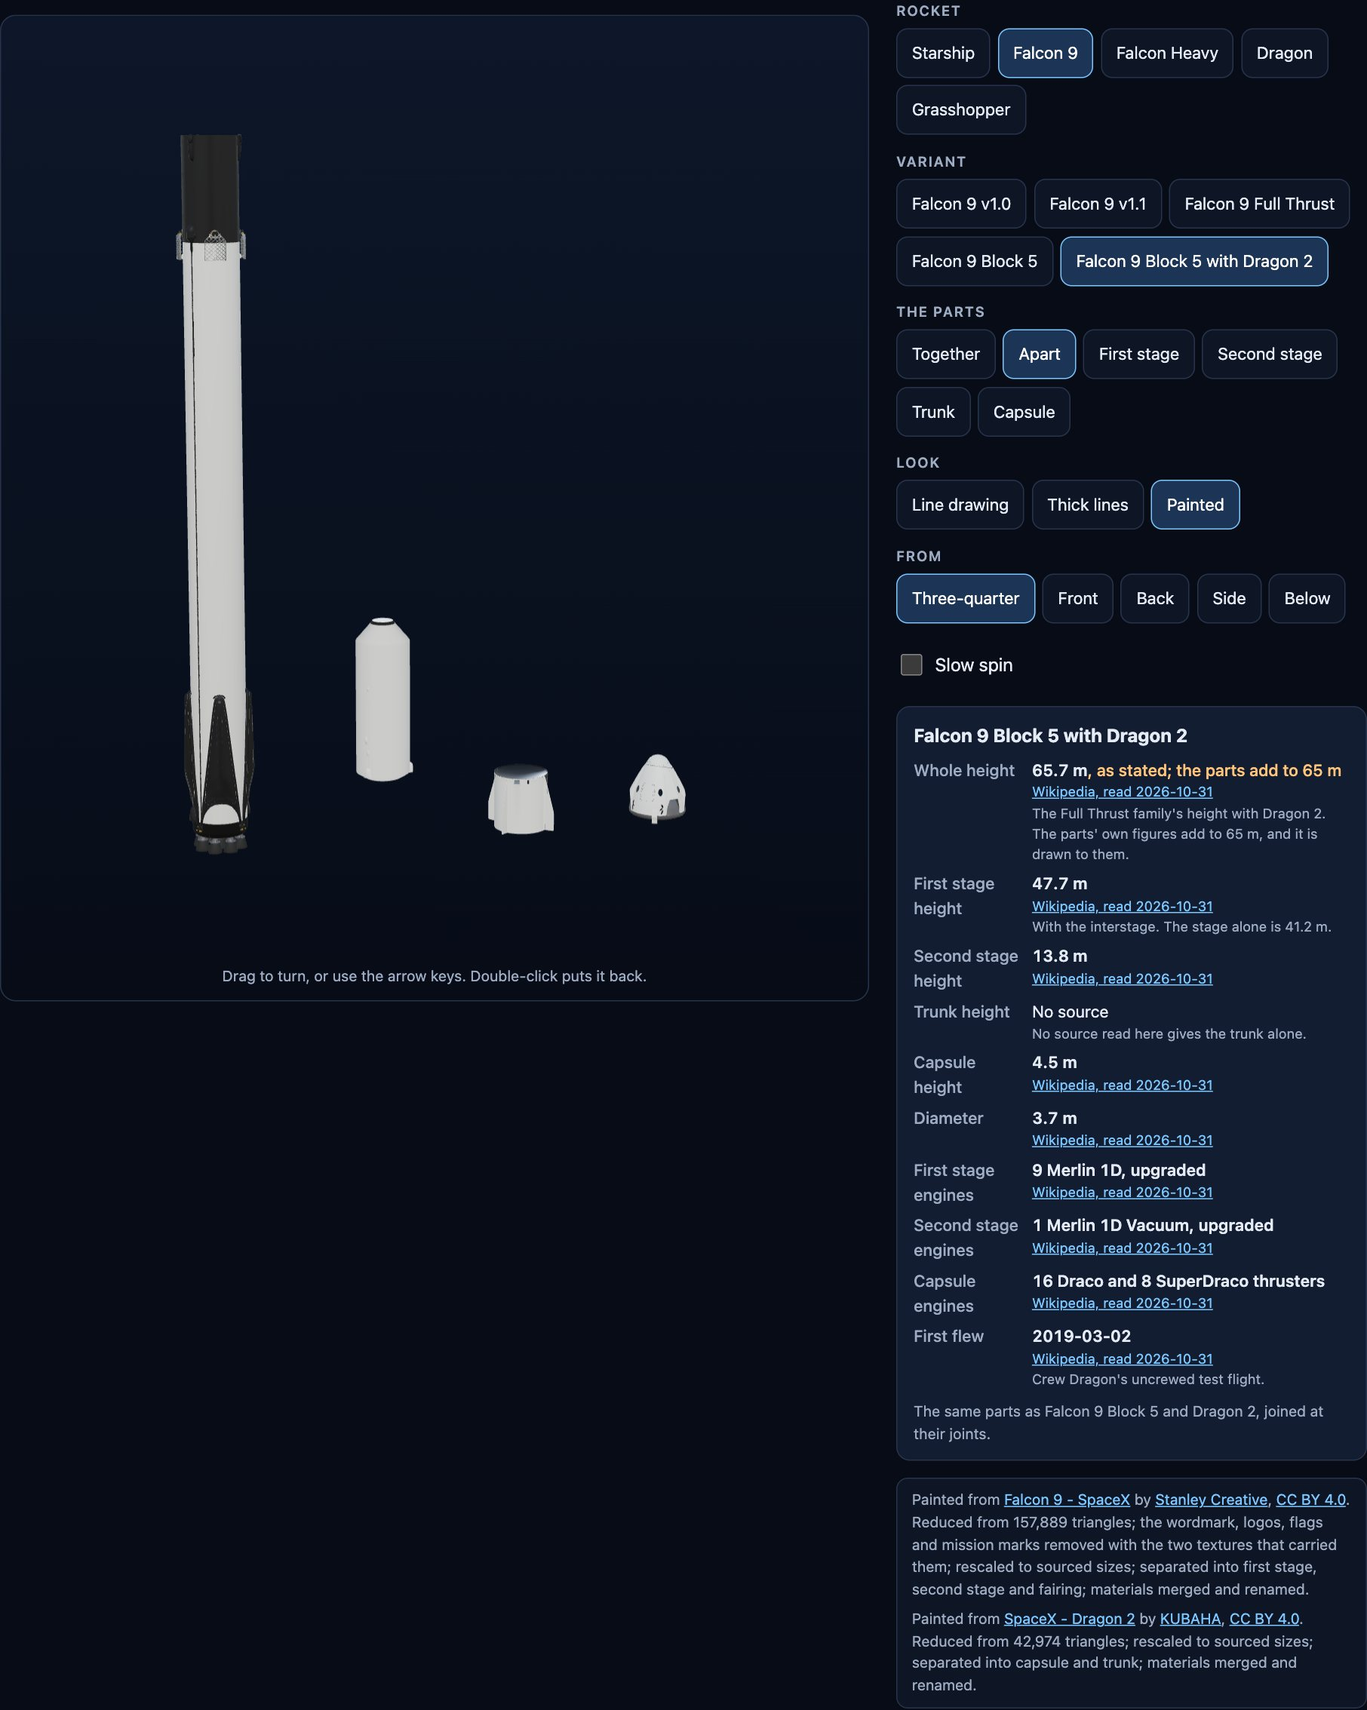
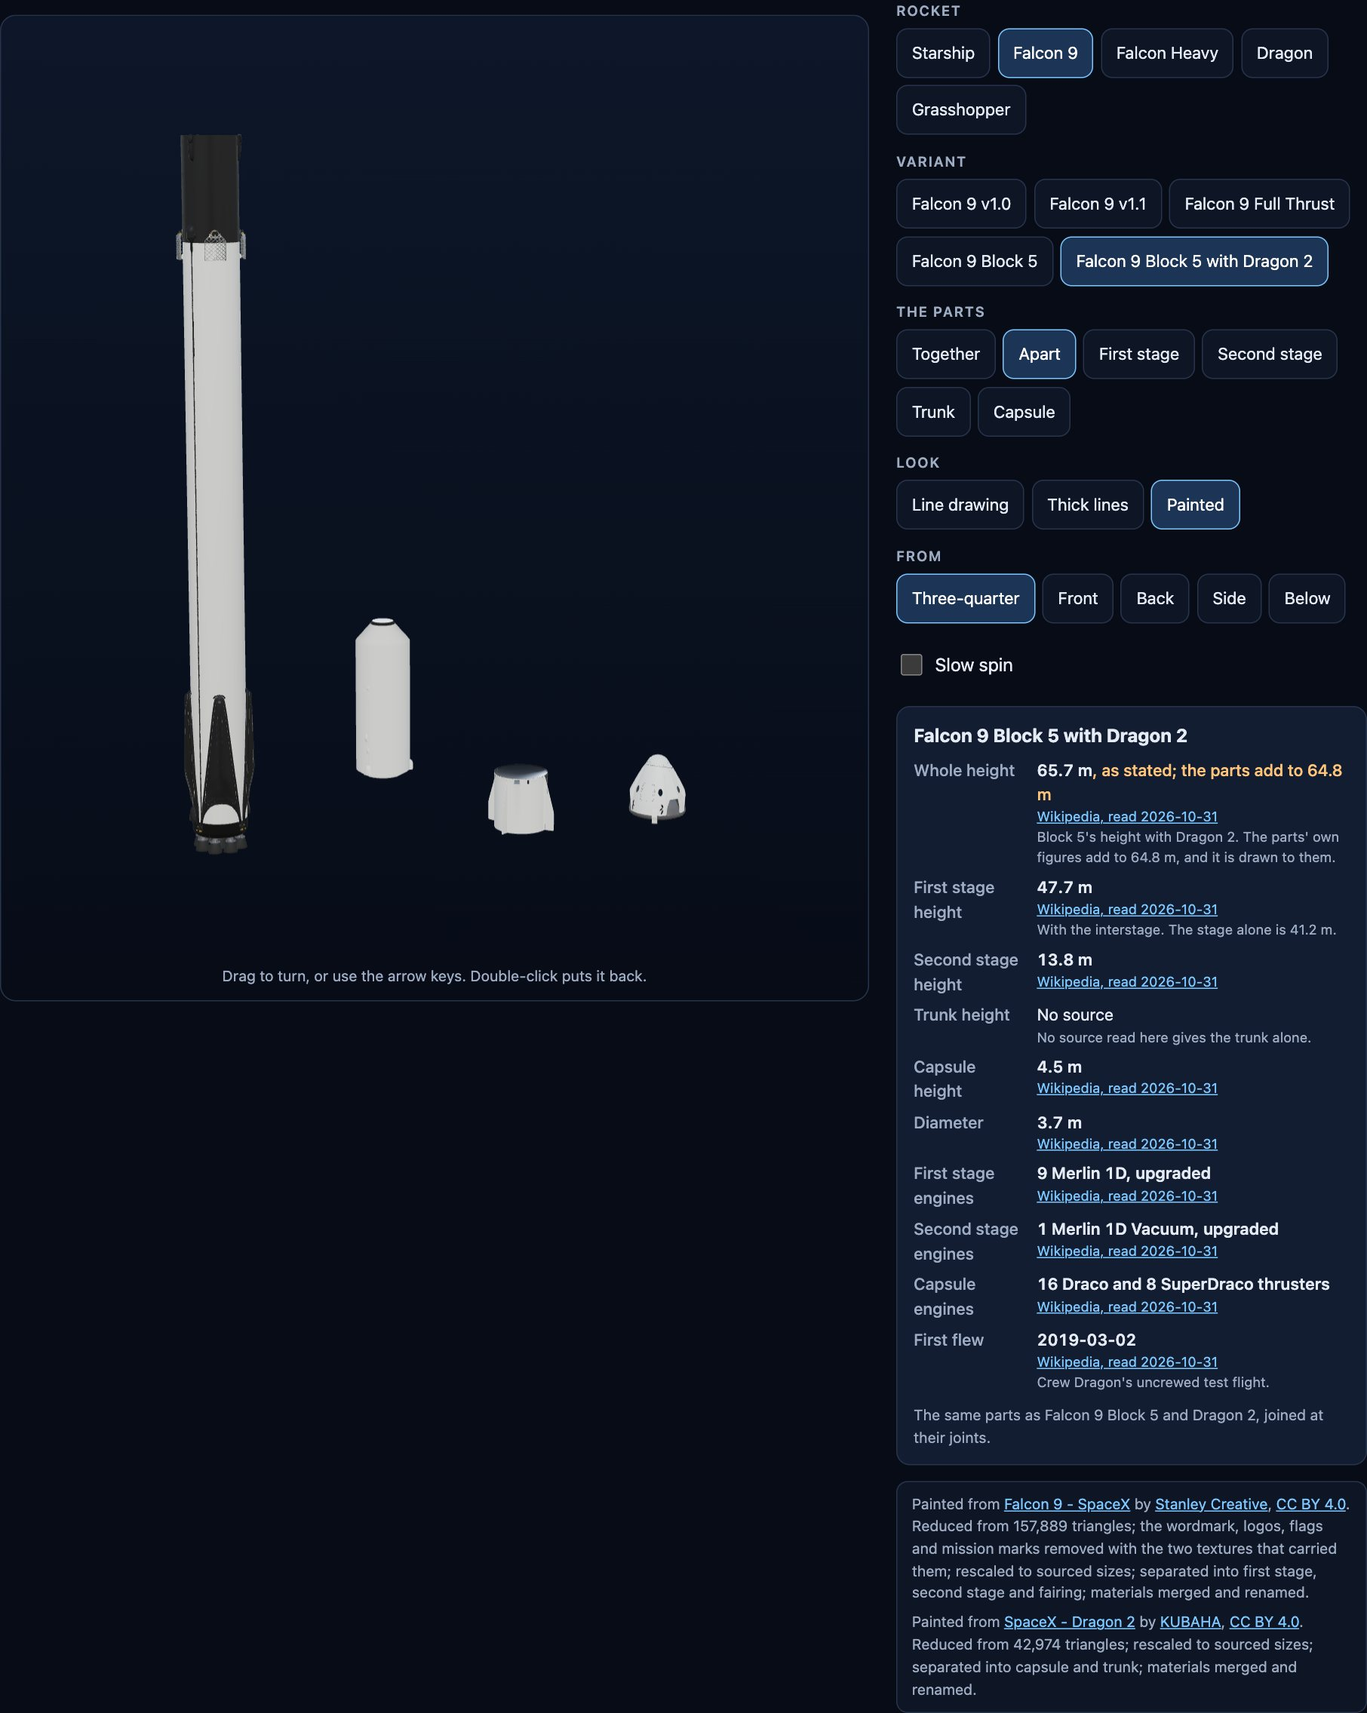
fix(falcon): Block 5 is 69.8 m; notice corrected

diff --git a/src/data/falcon.ts b/src/data/falcon.ts
@@ -1,8 +1,9 @@
-// Falcon 9 and Falcon Heavy as the sources give them. Facts on the older rockets also come from r/SpaceX's SpaceX-API (Apache-2.0), read from its repository's docs. A blank stays blank.
+// Falcon 9 and Falcon Heavy as the sources give them. r/SpaceX's SpaceX-API (Apache-2.0, archived in 2024) has one row per rocket, not per version, read from its repository's docs. A blank stays blank.
 import { blank, type Figure, type Variant } from "./types.ts";
 
 const F9 = "wikipedia-falcon-9" as const;
 const FH = "wikipedia-falcon-heavy" as const;
+const B5 = "wikipedia-falcon-9-block-5" as const;
 const API = "r-spacex" as const;
 const m = (value: number, source: Figure["source"], extra: Partial<Figure> = {}): Figure => ({ value, source, ...extra });
 const said = (value: string, source: Figure<string>["source"], extra: Partial<Figure<string>> = {}): Figure<string> => ({ value, source, ...extra });
@@ -11,7 +12,7 @@ const num = (value: number, source: Figure<number | string>["source"], extra: Pa
 const FAIRING_NOTE = "The article's height is measured to the top of the payload fairing.";
 const FIRST_STAGE_WITH_INTERSTAGE = m(47.7, F9, { note: "With the interstage. The stage alone is 41.2 m." });
 const SECOND_STAGE = m(13.8, F9);
-const FAIRING = m(13.1, API, { note: "From SpaceX-API's Falcon rows, 5.2 m across." });
+const FAIRING = m(13.1, API, { note: "SpaceX-API's Falcon 9 row, which gives one row for every version, 5.2 m across.", others: [{ value: 13, source: F9, note: "The Falcon 9 article rounds: 13 m long and 5.2 m in diameter." }] });
 
 export const FALCON_9_VARIANTS: readonly Variant[] = [
   {
@@ -23,7 +24,7 @@ export const FALCON_9_VARIANTS: readonly Variant[] = [
     slots: ["first-stage", "second-stage", "fairing"],
     note: "Its nine Merlin 1C engines stood in a 3 by 3 grid. Stated with a fairing, though its height with Dragon 1 was 47.8 m. No source read here gives its parts with the interstage, so they are drawn in proportion to the whole.",
     facts: {
-      height: m(54.9, F9, { note: FAIRING_NOTE }),
+      height: m(54.9, F9, { note: FAIRING_NOTE, others: [{ value: 53, source: F9, note: "The same article's table of versions says 53 m; its infobox, with a note on how it is measured, says 54.9 m." }] }),
       diameter: m(3.7, F9),
       parts: {
         "first-stage": m(39.6, F9, { brief: "the stage alone, without its interstage" }),
@@ -63,7 +64,7 @@ export const FALCON_9_VARIANTS: readonly Variant[] = [
     slots: ["first-stage", "second-stage", "fairing"],
     note: "Blocks 3 and 4 are part of Full Thrust; Block 4 first flew on 2017-08-14, and no source read here gives it sizes of its own. So it is not listed apart.",
     facts: {
-      height: m(69.8, F9, { note: FAIRING_NOTE }),
+      height: m(69.8, F9, { note: FAIRING_NOTE, others: [{ value: 70, source: F9, note: "The same article's table of versions rounds to 70 m." }] }),
       diameter: m(3.7, F9),
       parts: { "first-stage": FIRST_STAGE_WITH_INTERSTAGE, "second-stage": SECOND_STAGE, fairing: FAIRING },
       engines: { "first-stage": said("9 Merlin 1D+", F9), "second-stage": said("1 Merlin 1D Vacuum", F9) },
@@ -78,8 +79,8 @@ export const FALCON_9_VARIANTS: readonly Variant[] = [
     firstFlight: said("2018-05-11", F9, { note: "Bangabandhu Satellite-1." }),
     slots: ["first-stage", "second-stage", "fairing"],
     facts: {
-      height: m(70, F9, { others: [{ value: 69.8, source: F9, note: "The article's infobox gives 69.8 m for the Full Thrust family; its performance table gives 70 m for Block 5." }, { value: 70, source: API, note: "SpaceX-API's Falcon rows also say 70 m." }] }),
-      diameter: m(3.7, F9, { others: [{ value: 3.66, source: F9, note: "The performance table rounds to 3.66 m; the infobox and SpaceX-API say 3.7 m." }] }),
+      height: m(69.8, B5, { note: "With the payload fairing, from Block 5's own article.", others: [{ value: 70, source: F9, note: "The Falcon 9 article's table of versions rounds to 70 m." }, { value: 70, source: API, note: "SpaceX-API's Falcon 9 row says 70 m, for every version." }] }),
+      diameter: m(3.7, B5, { others: [{ value: 3.66, source: F9, note: "The Falcon 9 article's table of versions says 3.66 m; the infoboxes and SpaceX-API say 3.7 m." }] }),
       parts: { "first-stage": FIRST_STAGE_WITH_INTERSTAGE, "second-stage": SECOND_STAGE, fairing: FAIRING },
       engines: { "first-stage": said("9 Merlin 1D, upgraded", F9), "second-stage": said("1 Merlin 1D Vacuum, upgraded", F9) },
       more: { landingLegs: num(4, F9) },
@@ -95,7 +96,7 @@ export const FALCON_9_VARIANTS: readonly Variant[] = [
     partIds: { "first-stage": "falcon-9-block-5-first-stage", "second-stage": "falcon-9-block-5-second-stage", trunk: "dragon-dragon-2-trunk", capsule: "dragon-dragon-2-capsule" },
     note: "The same parts as Falcon 9 Block 5 and Dragon 2, joined at their joints.",
     facts: {
-      height: m(65.7, F9, { brief: "as stated; the parts add to 65 m", note: "The Full Thrust family's height with Dragon 2. The parts' own figures add to 65 m, and it is drawn to them." }),
+      height: m(65.7, B5, { brief: "as stated; the parts add to 64.8 m", note: "Block 5's height with Dragon 2. The parts' own figures add to 64.8 m, and it is drawn to them." }),
       diameter: m(3.7, F9),
       parts: { "first-stage": FIRST_STAGE_WITH_INTERSTAGE, "second-stage": SECOND_STAGE, trunk: blank("No source read here gives the trunk alone."), capsule: m(4.5, "wikipedia-dragon-2") },
       engines: { "first-stage": said("9 Merlin 1D, upgraded", F9), "second-stage": said("1 Merlin 1D Vacuum, upgraded", F9), capsule: said("16 Draco and 8 SuperDraco thrusters", "wikipedia-dragon-2") },

diff --git a/src/data/sources.ts b/src/data/sources.ts
@@ -25,12 +25,13 @@ export const SOURCES = {
   "gunter": { title: "Starship (Super Heavy Starship, BFR, Big Falcon Rocket)", publisher: "Gunter's Space Page", url: "https://space.skyrocket.de/doc_lau/super-heavy-starship.htm", date: "2026-10-31", read: "direct" },
   "newspace-v1-v4": { title: "SpaceX Starship from V1 to V4", publisher: "New Space Economy", url: "https://newspaceeconomy.ca/2026/05/28/spacex-starship-from-v1-to-v4/", date: "2026-05-28", read: "direct" },
   "spacecom-mk1": { title: "SpaceX Finishes Assembling New Starship Prototype", publisher: "Space.com", url: "https://www.space.com/spacex-assembles-starship-mk1-photo.html", date: "2019-09", read: "search" },
-  "r-spacex": { title: "SpaceX-API, docs/rockets/v4", publisher: "r/SpaceX (Apache-2.0, archived 2024)", url: "https://github.com/r-spacex/SpaceX-API/tree/master/docs/rockets/v4", date: "2024-08-17", read: "direct", licence: "Apache-2.0" },
+  "r-spacex": { title: "SpaceX-API, docs/rockets/v4: its Falcon 9 row in query.md and its Falcon Heavy row in all.md", publisher: "r/SpaceX (Apache-2.0, archived 2024)", url: "https://github.com/r-spacex/SpaceX-API/tree/master/docs/rockets/v4", date: "2024-08-17", read: "direct", licence: "Apache-2.0" },
   "wikipedia-falcon-1": { title: "Falcon 1", publisher: "Wikipedia", url: "https://en.wikipedia.org/wiki/Falcon_1", date: "2026-10-31", read: "direct", licence: "CC BY-SA 4.0" },
   "wikipedia-falcon-9": { title: "Falcon 9", publisher: "Wikipedia", url: "https://en.wikipedia.org/wiki/Falcon_9", date: "2026-10-31", read: "direct", licence: "CC BY-SA 4.0" },
   "wikipedia-dragon-1": { title: "SpaceX Dragon 1", publisher: "Wikipedia", url: "https://en.wikipedia.org/wiki/SpaceX_Dragon_1", date: "2026-10-31", read: "direct", licence: "CC BY-SA 4.0" },
   "wikipedia-dragon-2": { title: "SpaceX Dragon 2", publisher: "Wikipedia", url: "https://en.wikipedia.org/wiki/SpaceX_Dragon_2", date: "2026-10-31", read: "direct", licence: "CC BY-SA 4.0" },
   "wikipedia-grasshopper": { title: "SpaceX Grasshopper", publisher: "Wikipedia", url: "https://en.wikipedia.org/wiki/SpaceX_Grasshopper", date: "2026-10-31", read: "direct", licence: "CC BY-SA 4.0" },
+  "wikipedia-falcon-9-block-5": { title: "Falcon 9 Block 5", publisher: "Wikipedia", url: "https://en.wikipedia.org/wiki/Falcon_9_Block_5", date: "2026-10-31", read: "direct", licence: "CC BY-SA 4.0" },
   "wikipedia-falcon-heavy": { title: "Falcon Heavy", publisher: "Wikipedia", url: "https://en.wikipedia.org/wiki/Falcon_Heavy", date: "2026-10-31", read: "direct", licence: "CC BY-SA 4.0" },
 } as const satisfies Record<string, Source>;
 

diff --git a/e2e/demo.demo.ts b/e2e/demo.demo.ts
@@ -244,7 +244,7 @@ test("the comparison draws the variants at one scale, and lets a reader choose t
   await expect(table).not.toContainText("142 m");
   await press(page, "compare-falcon-9:block-5");
   await expect(lineup).toHaveAttribute("data-count", "7");
-  await expect(table).toContainText("70 m");
+  await expect(table).toContainText("69.8 m");
   await press(page, "compare-falcon-9:block-5");
   await press(page, "compare-starship:2019");
   await expect(lineup).toHaveAttribute("data-count", "7");
@@ -281,11 +281,11 @@ test("every rocket is on the main view, with its own variants and parts, and a v
   await press(page, "rocket-falcon-9");
   await expect(hero(page)).toHaveAttribute("data-variant", "block-5");
   for (const id of ["variant-v1.0", "variant-v1.1", "variant-ft", "variant-block-5", "variant-block-5-dragon-2", "show-first-stage", "show-second-stage", "show-fairing"]) await expect(page.locator(`[data-testid="${id}"]`)).toBeVisible();
-  await expect(page.locator('[data-testid="facts"]')).toContainText("70 m");
+  await expect(page.locator('[data-testid="facts"]')).toContainText("69.8 m");
   await press(page, "variant-block-5-dragon-2");
   await expect(page.locator('[data-testid="show-capsule"]')).toBeVisible();
   await expect(page.locator('[data-testid="show-fairing"]')).toHaveCount(0);
-  await expect(page.locator('[data-testid="facts"]')).toContainText("as stated; the parts add to 65 m");
+  await expect(page.locator('[data-testid="facts"]')).toContainText("as stated; the parts add to 64.8 m");
   await press(page, "rocket-falcon-heavy");
   await expect(page.locator('[data-testid="show-side-left"]')).toBeVisible();
   await expect(page.locator('[data-testid="facts"]')).toContainText("12.2 m");

diff --git a/test/fit.test.ts b/test/fit.test.ts
@@ -76,7 +76,7 @@ test("a labelled real version uses only parts true for it", () => {
 });
 
 test("each Falcon's parts add up to its sourced height, joint to joint, its nozzle nested in the stage below", () => {
-  for (const [id, height] of [["v1.0", 54.9], ["v1.1", 68.4], ["ft", 69.8], ["block-5", 70]] as const) {
+  for (const [id, height] of [["v1.0", 54.9], ["v1.1", 68.4], ["ft", 69.8], ["block-5", 69.8]] as const) {
     const report = check({ rocket: "falcon-9", variant: id });
     assert.equal(report.ok, true);
     assert.ok(Math.abs((report.size?.height ?? 0) - height) < 0.01, `${id}: ${report.size?.height}`);
@@ -89,7 +89,7 @@ test("a part goes on another rocket when its joints fit: Falcon 9 with Dragon 2 
   assert.equal(report.custom, false);
   assert.deepEqual(report.parts.map(({ part }) => part.id), ["falcon-9-block-5-first-stage", "falcon-9-block-5-second-stage", "dragon-dragon-2-trunk", "dragon-dragon-2-capsule"]);
   assert.deepEqual(report.credits.map((credit) => credit.creator).sort(), ["KUBAHA", "Stanley Creative"]);
-  assert.ok(Math.abs((report.size?.height ?? 0) - 65) < 0.05);
+  assert.ok(Math.abs((report.size?.height ?? 0) - 64.8) < 0.05);
 });
 
 test("a stage with the wrong joint is refused by its diameter, whichever rocket it came from", () => {

diff --git a/scripts/model-recipes.ts b/scripts/model-recipes.ts
@@ -277,9 +277,9 @@ const F9_TOP_OF_FIRST = 4865;
 const F9_FAIRING_BASE = 5794.25;
 const F9_R = 3.7 / 366;
 const F9_FIRST: RecipePart = { id: "first-stage", place: placer([0, 0.64, 0], 47.7 / (F9_TOP_OF_FIRST - 0.64), F9_R, 0) };
-const F9_JOINT_SCALE = 9.2 / (F9_FAIRING_BASE - F9_TOP_OF_FIRST);
-// its origin is where the nozzle would end, 4.6 m under its joint with the interstage, the same as this package's own second stage. The model has no nozzle: it hides in the interstage.
-const F9_SECOND_BOTTOM = F9_TOP_OF_FIRST - 4.6 / F9_JOINT_SCALE;
+const F9_JOINT_SCALE = 9 / (F9_FAIRING_BASE - F9_TOP_OF_FIRST);
+// its origin is where the nozzle would end, 4.8 m under its joint with the interstage, the same as this package's own second stage. The model has no nozzle: it hides in the interstage.
+const F9_SECOND_BOTTOM = F9_TOP_OF_FIRST - 4.8 / F9_JOINT_SCALE;
 const F9_SECOND: RecipePart = { id: "second-stage", place: placer([0, F9_SECOND_BOTTOM, 0], F9_JOINT_SCALE, F9_R, 0) };
 const F9_FAIRING: RecipePart = { id: "fairing", place: placer([0, F9_FAIRING_BASE, 0], 13.1 / (7100 - F9_FAIRING_BASE), F9_R, 0) };
 /** Which part of the Falcon 9 a node belongs to: the second stage's nodes run down inside the interstage. */

diff --git a/test/data.test.ts b/test/data.test.ts
@@ -115,7 +115,11 @@ test("what is planned carries sourced facts, not shapes", () => {
 test("Falcon 9's versions are those the sources document, each with its own height, and Block 4 is not listed apart", () => {
   const ids = ROCKETS["falcon-9"].variants.map((variant) => variant.id);
   assert.deepEqual(ids, ["v1.0", "v1.1", "ft", "block-5", "block-5-dragon-2"]);
-  assert.deepEqual(ids.slice(0, 4).map((id) => variantOf("falcon-9", id)?.facts.height.value), [54.9, 68.4, 69.8, 70]);
+  assert.deepEqual(ids.slice(0, 4).map((id) => variantOf("falcon-9", id)?.facts.height.value), [54.9, 68.4, 69.8, 69.8]);
+  // the rounded figures are kept as what else was said, and say why
+  assert.ok(variantOf("falcon-9", "block-5")?.facts.height.others?.some((other) => other.value === 70 && /rounds/.test(other.note)));
+  assert.ok(variantOf("falcon-9", "v1.0")?.facts.height.others?.some((other) => other.value === 53));
+  assert.equal(variantOf("falcon-9", "block-5")?.facts.height.source, "wikipedia-falcon-9-block-5");
   assert.match(variantOf("falcon-9", "ft")?.note ?? "", /Block 4/);
 });
 

diff --git a/src/model/falcon.ts b/src/model/falcon.ts
@@ -46,7 +46,7 @@ export const FALCON_DRAWS: Readonly<Record<string, FalconDraw>> = {
   // 68.4 m in all: 41.2 m of stage
   "v1.1": falconOf(46, 4.8, 13.8, 4.5, 13.1, 2.6, "octaweb", true, false),
   ft: falconOf(47.7, 6.5, 13.8, 4.8, 13.1, 2.6, "octaweb", true, true),
-  "block-5": falconOf(47.7, 6.5, 13.8, 4.6, 13.1, 2.6, "octaweb", true, true),
+  "block-5": falconOf(47.7, 6.5, 13.8, 4.8, 13.1, 2.6, "octaweb", true, true),
 };
 
 function firstStage(d: FirstStageDraw, withTop: boolean): Piece[] {

diff --git a/test/legal.test.ts b/test/legal.test.ts
@@ -64,7 +64,7 @@ test("each painted model is under 8 MB and to its sourced size", () => {
     "starship-v1-flight1-ship.glb": [50.3, 9],
     "starship-2019-ship.glb": [50, Number.NaN],
     "falcon-9-block-5-first-stage.glb": [47.7, 3.7],
-    "falcon-9-block-5-second-stage.glb": [11.09, 3.7],
+    "falcon-9-block-5-second-stage.glb": [10.85, 3.7],
     "falcon-9-block-5-fairing.glb": [13.1, 5.2],
     "dragon-dragon-2-trunk.glb": [3.94, 3.7],
     "dragon-dragon-2-capsule.glb": [4.5, 4],

diff --git a/NOTICE.md b/NOTICE.md
@@ -34,17 +34,17 @@ Sizes are plain facts, each with its source in `src/data/sources.ts` and on the 
 
 | Source | What was taken |
 | --- | --- |
-| Wikipedia: SpaceX Starship, SpaceX Super Heavy, SpaceX Starship (spacecraft), SpaceX Raptor, Starship flight test 1, List of Starship launches, Falcon 1, Falcon 9, Falcon Heavy, SpaceX Dragon 1, SpaceX Dragon 2, SpaceX Grasshopper (CC BY-SA 4.0, read 2026-10-31) | Heights, diameters, engine counts, grid fin counts, flap changes, first flight dates in UTC. Facts only: no text is copied |
+| Wikipedia: SpaceX Starship, SpaceX Super Heavy, SpaceX Starship (spacecraft), SpaceX Raptor, Starship flight test 1, List of Starship launches, Falcon 1, Falcon 9, Falcon 9 Block 5, Falcon Heavy, SpaceX Dragon 1, SpaceX Dragon 2, SpaceX Grasshopper (CC BY-SA 4.0, read 2026-10-31) | Heights, diameters, engine counts, grid fin counts, flap changes, first flight dates in UTC. Facts only: no text is copied |
 | SpaceX's Starship page, https://new.spacex.com/vehicles/starship, as a search engine quoted it: the page itself would not load | Rounded heights, kept as a second opinion |
 | SatNews, 2026-05-14 | Grid fins, four to three and about 50% larger; about 1.5 m taller |
 | Gunter's Space Page | Version names, first flights by serial number; one set of sizes per family, not used for sizes |
 | NASASpaceflight, 2025-05-30, and Ars Technica, 2024-04-08 | Known through Wikipedia's citations; not read directly |
 | Space.com, 2019 | The 2019 prototype's height, as a search engine quoted it |
-| [r-spacex/SpaceX-API](https://github.com/r-spacex/SpaceX-API) (Apache-2.0, archived in 2024; its live address gave no JSON, so the repository's docs were read) | Facts on the Falcons: their heights and diameters, as a second source, and the fairing's size. No code of it is used. Its licence: Copyright r/SpaceX contributors, under the Apache License 2.0, https://www.apache.org/licenses/LICENSE-2.0 |
+| [r-spacex/SpaceX-API](https://github.com/r-spacex/SpaceX-API) (Apache-2.0, archived in 2024; its live address gave no JSON, so the repository's docs were read) | Its Falcon 9 row (the fairing's size; 70 m, as a second opinion) and its Falcon Heavy row (70 m, 12.2 m across). One row per rocket, not per version. No code of it is used. Its licence: Copyright r/SpaceX contributors, under the Apache License 2.0, https://www.apache.org/licenses/LICENSE-2.0 |
 
-## Looked at, nothing taken
+## Not used
 
-These were looked at for where parts sit; nothing from them is used, converted, traced or adapted: a CC BY-SA 1:600 Thingiverse model by RocketWorks, and pictures in the README of github.com/Spiri0/SpaceX-Starship (no licence). The Wikimedia Commons photographs and diagrams looked at are not shipped.
+Nothing from these is used, converted, traced or adapted, and their shapes and pictures were not looked at for this package: a CC BY-SA 1:600 model by RocketWorks on Thingiverse, and github.com/Spiri0/SpaceX-Starship, which has no licence. Photographs from Wikimedia Commons were looked at for where parts sit, and to compare the results with; none is shipped or traced.
 
 ## What it uses
 

diff --git a/docs/variants.md b/docs/variants.md
@@ -51,13 +51,13 @@ Every part's flaps, fins and chines are drawn from proportions, not from publish
 
 | Variant | Whole | First stage | Second stage | Fairing | First flew |
 | --- | --- | --- | --- | --- | --- |
-| `v1.0` | 54.9 m, to the fairing's top; 47.8 m with Dragon 1 | 39.6 m, the stage alone | No source | No source | 2010-06-04 |
+| `v1.0` | 54.9 m, to the fairing's top; 47.8 m with Dragon 1. One table says 53 m | 39.6 m, the stage alone | No source | No source | 2010-06-04 |
 | `v1.1` | 68.4 m; 63.4 m with Dragon 1 | 41.2 m, the stage alone | No source | No source | 2013-09-29 |
-| `ft` Full Thrust | 69.8 m; 65.7 m with Dragon 2, 63.7 m with Dragon 1 | 47.7 m with its interstage | 13.8 m | 13.1 m | 2015-12-22 |
-| `block-5` Block 5 | 70 m | 47.7 m with its interstage | 13.8 m | 13.1 m | 2018-05-11 |
-| `block-5-dragon-2` Block 5 with Dragon 2 | 65.7 m as stated; the parts add to 65 m | The same | The same | Trunk, capsule | 2019-03-02 |
+| `ft` Full Thrust | 69.8 m; one table rounds to 70 m | 47.7 m with its interstage | 13.8 m | 13.1 m | 2015-12-22 |
+| `block-5` Block 5 | 69.8 m; 65.7 m with Dragon 2, 63.7 m with Dragon 1. One table and SpaceX-API say 70 m | 47.7 m with its interstage | 13.8 m | 13.1 m | 2018-05-11 |
+| `block-5-dragon-2` Block 5 with Dragon 2 | 65.7 m as stated; the parts add to 64.8 m | The same | The same | Trunk, capsule | 2019-03-02 |
 
-All are 3.7 m across. Block 4 first flew on 2017-08-14, and no source read here gives it sizes of its own, so it is not listed apart. `SpaceX-API` (Apache-2.0) was read as a second source for the Falcons: it was archived in 2024.
+All are 3.7 m across. Block 4 first flew on 2017-08-14, and no source read here gives it sizes of its own, so it is not listed apart. `SpaceX-API` (Apache-2.0, archived in 2024) has one row for Falcon 9 and one for Falcon Heavy, not one per version, read from its repository's docs. It gives the fairing's 13.1 m; the Falcon 9 article rounds that to 13 m.
 
 ## Falcon Heavy, Dragon and Grasshopper
 
